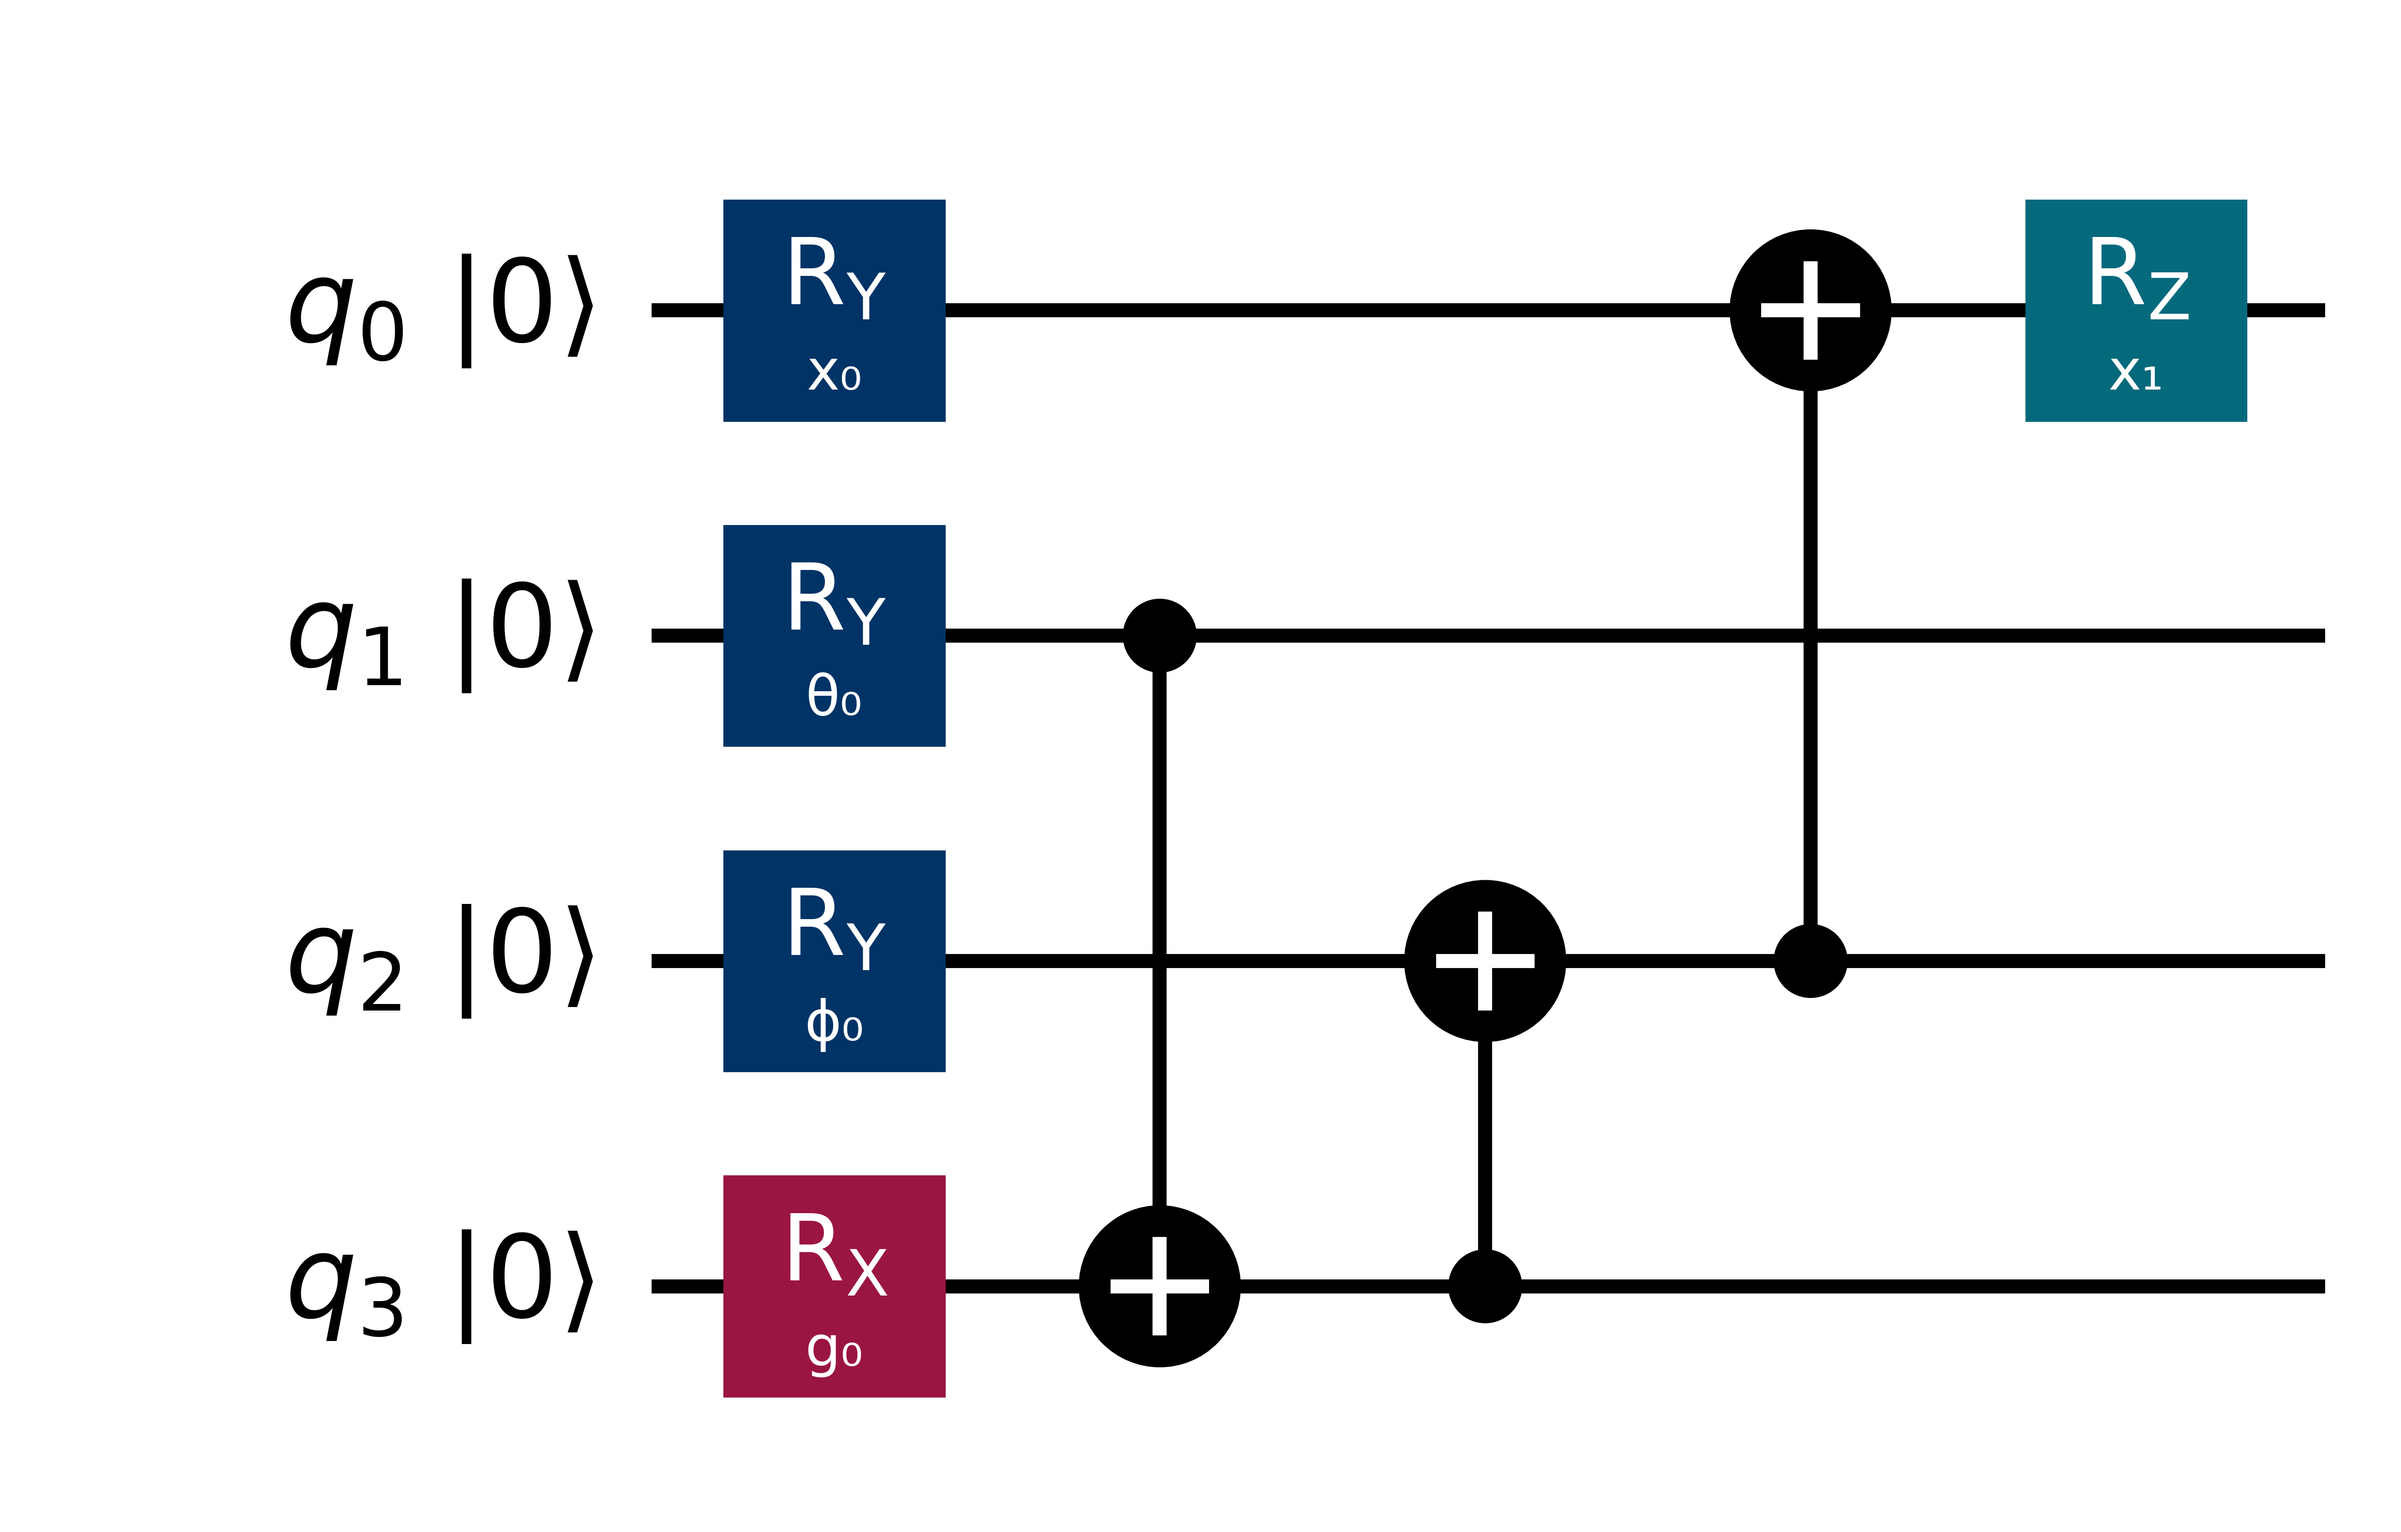
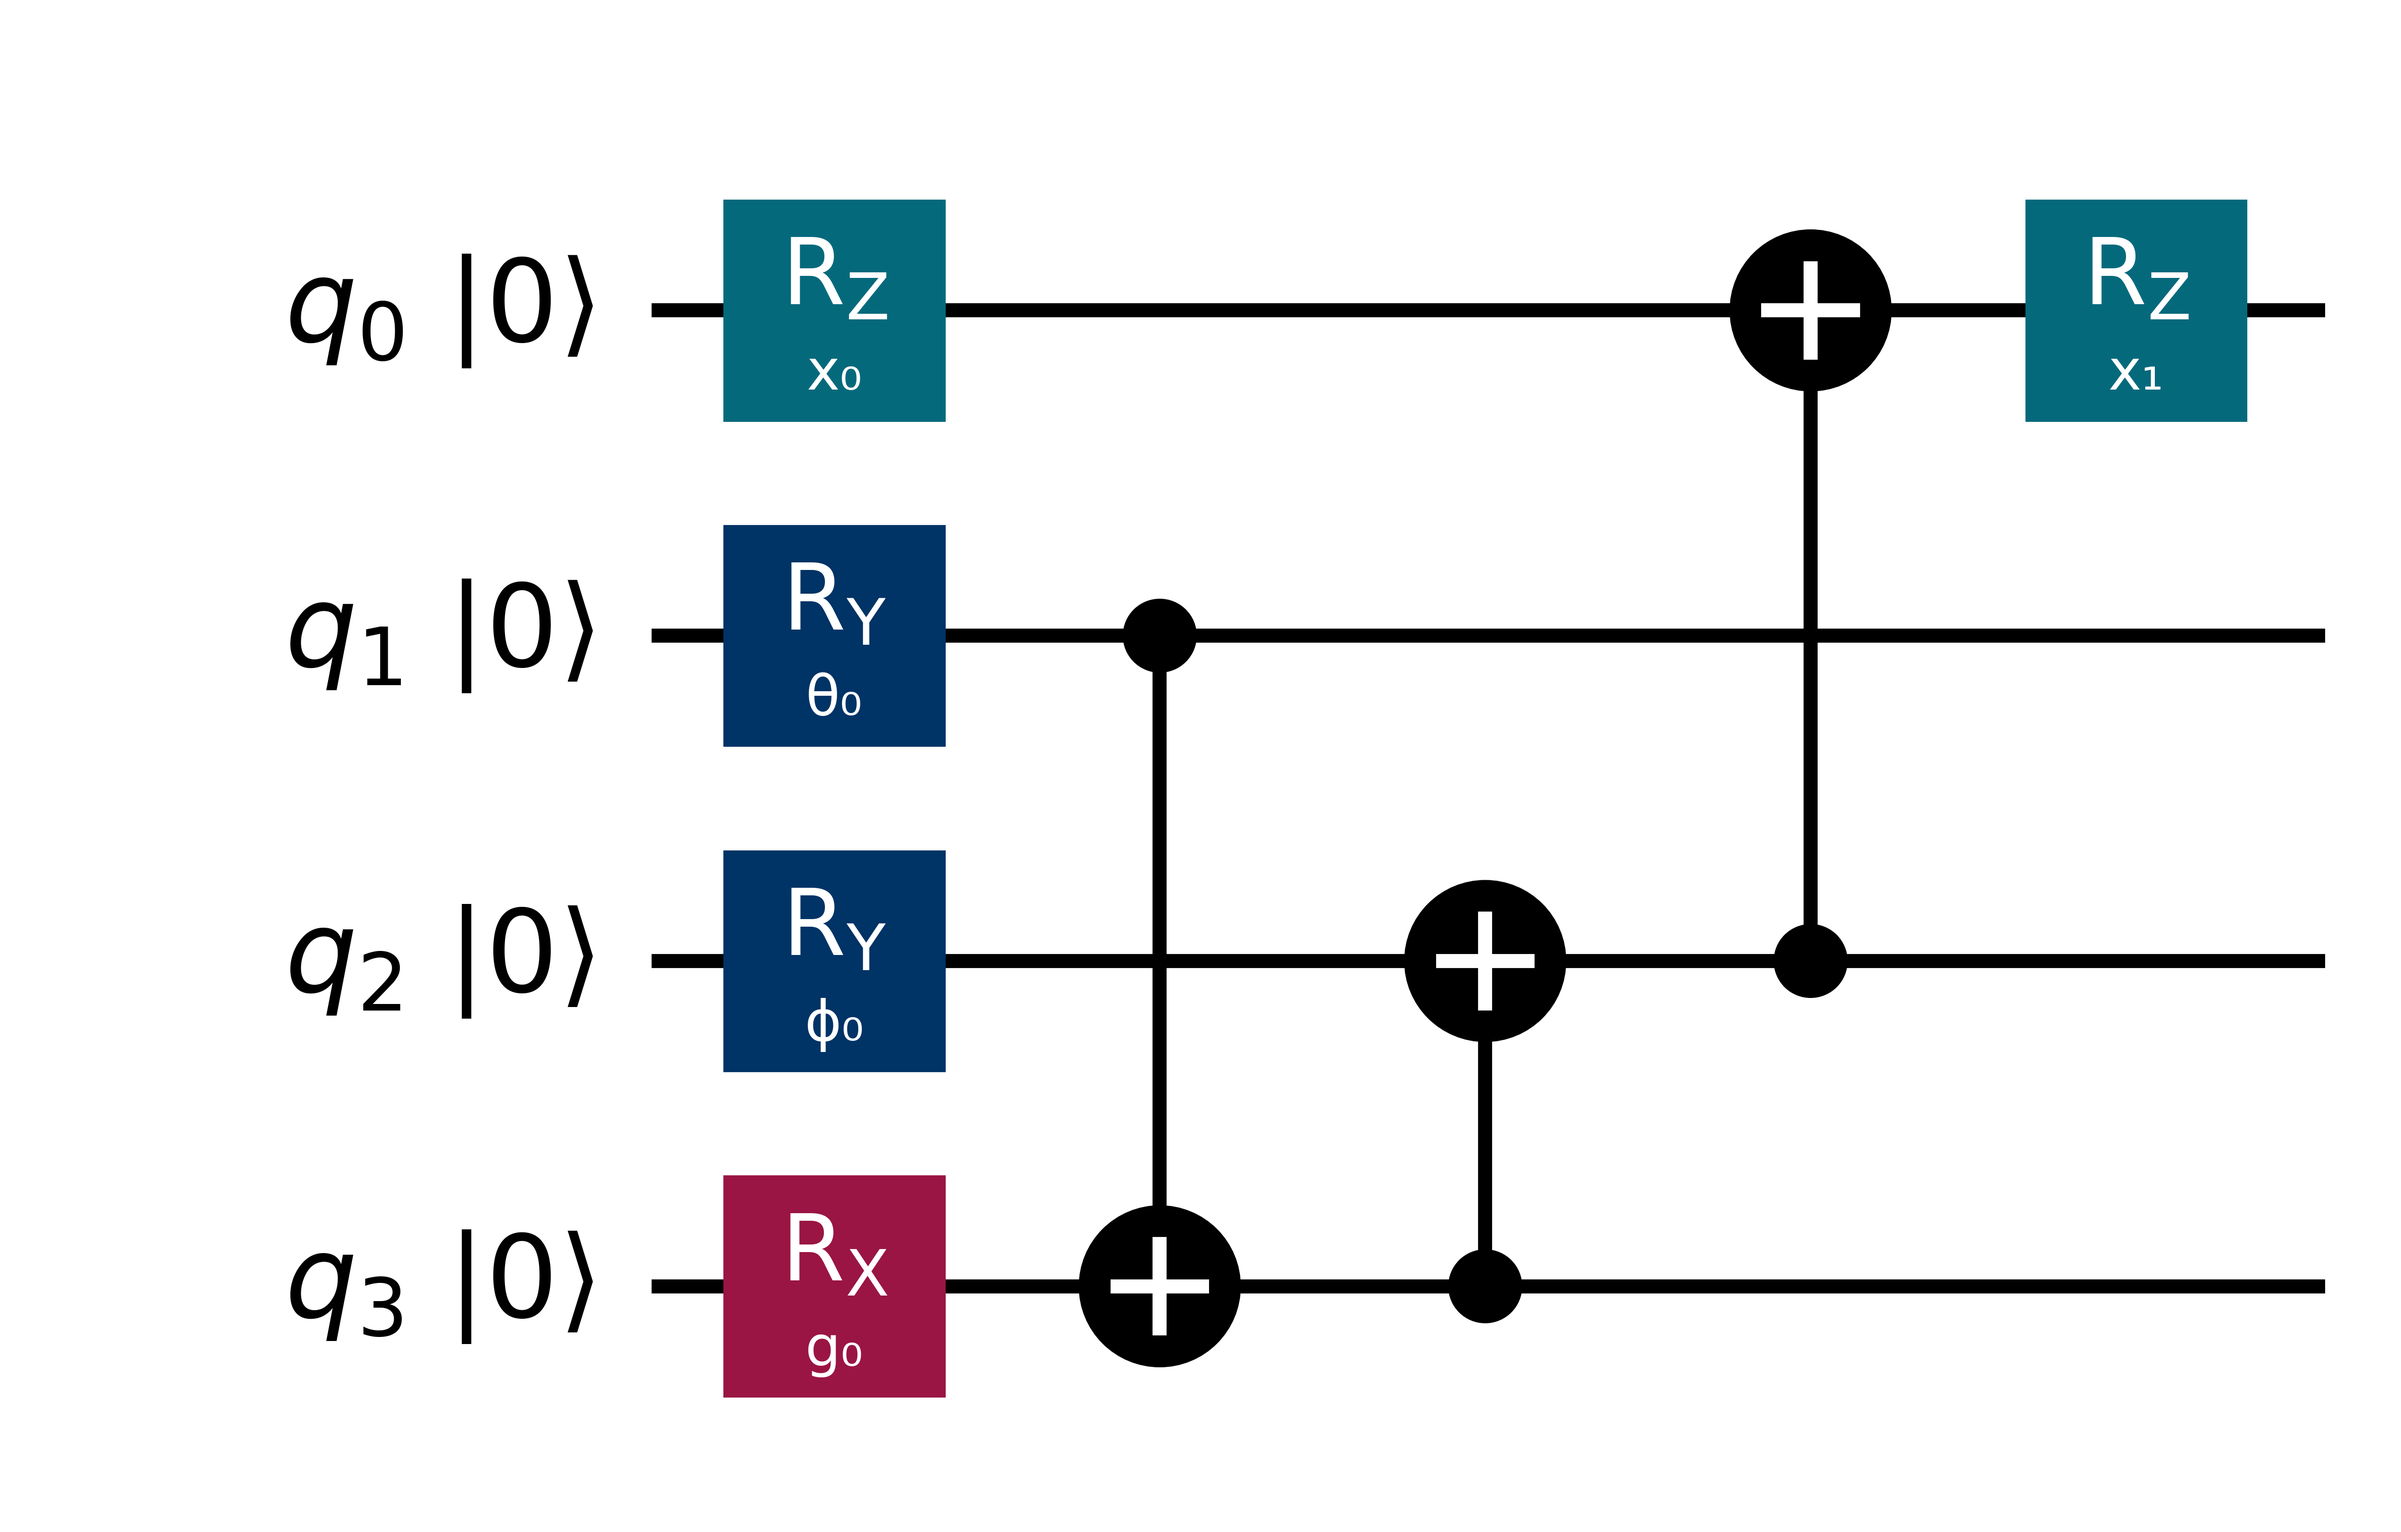
Modify rotation gate in circuit

Changed region(s): [[0.2804, 0.124, 0.4051, 0.279]]

diff --git a/cifar10_binaryclass/qnlnn_circuit.py b/cifar10_binaryclass/qnlnn_circuit.py
@@ -73,7 +73,7 @@ class QNLNNCircuit:
 
     def ansatz_0_1(self):
         # rep 1
-        self.circuit.ry(self.x_0, 0)
+        self.circuit.rz(self.x_0, 0)
         self.circuit.ry(self.theta_0, 1)
         self.circuit.ry(self.phi_0, 2)
         self.circuit.rx(self.g_0, 3)
@@ -86,7 +86,7 @@ class QNLNNCircuit:
 
     def ansatz_0_2(self):
         # rep 1
-        self.circuit.ry(self.x_0, 0)
+        self.circuit.rz(self.x_0, 0)
         self.circuit.ry(self.theta_0, 1)
         self.circuit.ry(self.phi_0, 2)
         self.circuit.rx(self.g_0, 3)
@@ -98,7 +98,7 @@ class QNLNNCircuit:
         self.circuit.rz(self.x_1, 0)
 
         # rep 2
-        self.circuit.ry(self.x_2, 0)
+        self.circuit.rz(self.x_2, 0)
         self.circuit.ry(self.theta_1, 1)
         self.circuit.ry(self.phi_1, 2)
         self.circuit.rx(self.g_1, 3)
@@ -111,7 +111,7 @@ class QNLNNCircuit:
 
     def ansatz_0_3(self):
         # rep 1
-        self.circuit.ry(self.x_0, 0)
+        self.circuit.rz(self.x_0, 0)
         self.circuit.ry(self.theta_0, 1)
         self.circuit.ry(self.phi_0, 2)
         self.circuit.rx(self.g_0, 3)
@@ -123,7 +123,7 @@ class QNLNNCircuit:
         self.circuit.rz(self.x_1, 0)
 
         # rep 2
-        self.circuit.ry(self.x_2, 0)
+        self.circuit.rz(self.x_2, 0)
         self.circuit.ry(self.theta_1, 1)
         self.circuit.ry(self.phi_1, 2)
         self.circuit.rx(self.g_1, 3)
@@ -135,7 +135,7 @@ class QNLNNCircuit:
         self.circuit.rz(self.x_3, 0)
 
         # rep 3
-        self.circuit.ry(self.x_4, 0)
+        self.circuit.rz(self.x_4, 0)
         self.circuit.ry(self.theta_2, 1)
         self.circuit.ry(self.phi_2, 2)
         self.circuit.rx(self.g_2, 3)
@@ -148,7 +148,7 @@ class QNLNNCircuit:
 
     def ansatz_1_1(self):
         # rep 1
-        self.circuit.ry(self.x_0, 0)
+        self.circuit.rz(self.x_0, 0)
         self.circuit.ry(self.theta_0, 1)
         self.circuit.ry(self.phi_0, 2)
         self.circuit.rx(self.g_0, 3)
@@ -161,7 +161,7 @@ class QNLNNCircuit:
 
     def ansatz_1_2(self):
         # rep 1
-        self.circuit.ry(self.x_0, 0)
+        self.circuit.rz(self.x_0, 0)
         self.circuit.ry(self.theta_0, 1)
         self.circuit.ry(self.phi_0, 2)
         self.circuit.rx(self.g_0, 3)
@@ -173,7 +173,7 @@ class QNLNNCircuit:
         self.circuit.rz(self.x_1, 0)
 
         # rep 2
-        self.circuit.ry(self.x_2, 0)
+        self.circuit.rz(self.x_2, 0)
         self.circuit.ry(self.theta_1, 1)
         self.circuit.ry(self.phi_1, 2)
         self.circuit.rx(self.g_1, 3)
@@ -186,7 +186,7 @@ class QNLNNCircuit:
 
     def ansatz_1_3(self):
         # rep 1
-        self.circuit.ry(self.x_0, 0)
+        self.circuit.rz(self.x_0, 0)
         self.circuit.ry(self.theta_0, 1)
         self.circuit.ry(self.phi_0, 2)
         self.circuit.rx(self.g_0, 3)
@@ -198,7 +198,7 @@ class QNLNNCircuit:
         self.circuit.rz(self.x_1, 0)
 
         # rep 2
-        self.circuit.ry(self.x_2, 0)
+        self.circuit.rz(self.x_2, 0)
         self.circuit.ry(self.theta_1, 1)
         self.circuit.ry(self.phi_1, 2)
         self.circuit.rx(self.g_1, 3)
@@ -210,7 +210,7 @@ class QNLNNCircuit:
         self.circuit.rz(self.x_3, 0)
 
         # rep 3
-        self.circuit.ry(self.x_4, 0)
+        self.circuit.rz(self.x_4, 0)
         self.circuit.ry(self.theta_2, 1)
         self.circuit.ry(self.phi_2, 2)
         self.circuit.rx(self.g_2, 3)
@@ -223,7 +223,7 @@ class QNLNNCircuit:
 
     def ansatz_2_1(self):
         # rep 1
-        self.circuit.ry(self.x_0, 0)
+        self.circuit.rz(self.x_0, 0)
         self.circuit.ry(self.theta_0, 1)
         self.circuit.ry(self.phi_0, 2)
         self.circuit.rx(self.g_0, 3)
@@ -236,7 +236,7 @@ class QNLNNCircuit:
 
     def ansatz_2_2(self):
         # rep 1
-        self.circuit.ry(self.x_0, 0)
+        self.circuit.rz(self.x_0, 0)
         self.circuit.ry(self.theta_0, 1)
         self.circuit.ry(self.phi_0, 2)
         self.circuit.rx(self.g_0, 3)
@@ -248,7 +248,7 @@ class QNLNNCircuit:
         self.circuit.rz(self.x_1, 0)
 
         # rep 2
-        self.circuit.ry(self.x_2, 0)
+        self.circuit.rz(self.x_2, 0)
         self.circuit.ry(self.theta_1, 1)
         self.circuit.ry(self.phi_1, 2)
         self.circuit.rx(self.g_1, 3)
@@ -261,7 +261,7 @@ class QNLNNCircuit:
 
     def ansatz_2_3(self):
         # rep 1
-        self.circuit.ry(self.x_0, 0)
+        self.circuit.rz(self.x_0, 0)
         self.circuit.ry(self.theta_0, 1)
         self.circuit.ry(self.phi_0, 2)
         self.circuit.rx(self.g_0, 3)
@@ -273,7 +273,7 @@ class QNLNNCircuit:
         self.circuit.rz(self.x_1, 0)
 
         # rep 2
-        self.circuit.ry(self.x_2, 0)
+        self.circuit.rz(self.x_2, 0)
         self.circuit.ry(self.theta_1, 1)
         self.circuit.ry(self.phi_1, 2)
         self.circuit.rx(self.g_1, 3)
@@ -285,7 +285,7 @@ class QNLNNCircuit:
         self.circuit.rz(self.x_3, 0)
 
         # rep 3
-        self.circuit.ry(self.x_4, 0)
+        self.circuit.rz(self.x_4, 0)
         self.circuit.ry(self.theta_2, 1)
         self.circuit.ry(self.phi_2, 2)
         self.circuit.rx(self.g_2, 3)

diff --git a/mnist_digit_binaryclass/qnlnn_circuit.py b/mnist_digit_binaryclass/qnlnn_circuit.py
@@ -73,7 +73,7 @@ class QNLNNCircuit:
 
     def ansatz_0_1(self):
         # rep 1
-        self.circuit.ry(self.x_0, 0)
+        self.circuit.rz(self.x_0, 0)
         self.circuit.ry(self.theta_0, 1)
         self.circuit.ry(self.phi_0, 2)
         self.circuit.rx(self.g_0, 3)
@@ -86,7 +86,7 @@ class QNLNNCircuit:
 
     def ansatz_0_2(self):
         # rep 1
-        self.circuit.ry(self.x_0, 0)
+        self.circuit.rz(self.x_0, 0)
         self.circuit.ry(self.theta_0, 1)
         self.circuit.ry(self.phi_0, 2)
         self.circuit.rx(self.g_0, 3)
@@ -98,7 +98,7 @@ class QNLNNCircuit:
         self.circuit.rz(self.x_1, 0)
 
         # rep 2
-        self.circuit.ry(self.x_2, 0)
+        self.circuit.rz(self.x_2, 0)
         self.circuit.ry(self.theta_1, 1)
         self.circuit.ry(self.phi_1, 2)
         self.circuit.rx(self.g_1, 3)
@@ -111,7 +111,7 @@ class QNLNNCircuit:
 
     def ansatz_0_3(self):
         # rep 1
-        self.circuit.ry(self.x_0, 0)
+        self.circuit.rz(self.x_0, 0)
         self.circuit.ry(self.theta_0, 1)
         self.circuit.ry(self.phi_0, 2)
         self.circuit.rx(self.g_0, 3)
@@ -123,7 +123,7 @@ class QNLNNCircuit:
         self.circuit.rz(self.x_1, 0)
 
         # rep 2
-        self.circuit.ry(self.x_2, 0)
+        self.circuit.rz(self.x_2, 0)
         self.circuit.ry(self.theta_1, 1)
         self.circuit.ry(self.phi_1, 2)
         self.circuit.rx(self.g_1, 3)
@@ -135,7 +135,7 @@ class QNLNNCircuit:
         self.circuit.rz(self.x_3, 0)
 
         # rep 3
-        self.circuit.ry(self.x_4, 0)
+        self.circuit.rz(self.x_4, 0)
         self.circuit.ry(self.theta_2, 1)
         self.circuit.ry(self.phi_2, 2)
         self.circuit.rx(self.g_2, 3)
@@ -148,7 +148,7 @@ class QNLNNCircuit:
 
     def ansatz_1_1(self):
         # rep 1
-        self.circuit.ry(self.x_0, 0)
+        self.circuit.rz(self.x_0, 0)
         self.circuit.ry(self.theta_0, 1)
         self.circuit.ry(self.phi_0, 2)
         self.circuit.rx(self.g_0, 3)
@@ -161,7 +161,7 @@ class QNLNNCircuit:
 
     def ansatz_1_2(self):
         # rep 1
-        self.circuit.ry(self.x_0, 0)
+        self.circuit.rz(self.x_0, 0)
         self.circuit.ry(self.theta_0, 1)
         self.circuit.ry(self.phi_0, 2)
         self.circuit.rx(self.g_0, 3)
@@ -173,7 +173,7 @@ class QNLNNCircuit:
         self.circuit.rz(self.x_1, 0)
 
         # rep 2
-        self.circuit.ry(self.x_2, 0)
+        self.circuit.rz(self.x_2, 0)
         self.circuit.ry(self.theta_1, 1)
         self.circuit.ry(self.phi_1, 2)
         self.circuit.rx(self.g_1, 3)
@@ -186,7 +186,7 @@ class QNLNNCircuit:
 
     def ansatz_1_3(self):
         # rep 1
-        self.circuit.ry(self.x_0, 0)
+        self.circuit.rz(self.x_0, 0)
         self.circuit.ry(self.theta_0, 1)
         self.circuit.ry(self.phi_0, 2)
         self.circuit.rx(self.g_0, 3)
@@ -198,7 +198,7 @@ class QNLNNCircuit:
         self.circuit.rz(self.x_1, 0)
 
         # rep 2
-        self.circuit.ry(self.x_2, 0)
+        self.circuit.rz(self.x_2, 0)
         self.circuit.ry(self.theta_1, 1)
         self.circuit.ry(self.phi_1, 2)
         self.circuit.rx(self.g_1, 3)
@@ -210,7 +210,7 @@ class QNLNNCircuit:
         self.circuit.rz(self.x_3, 0)
 
         # rep 3
-        self.circuit.ry(self.x_4, 0)
+        self.circuit.rz(self.x_4, 0)
         self.circuit.ry(self.theta_2, 1)
         self.circuit.ry(self.phi_2, 2)
         self.circuit.rx(self.g_2, 3)
@@ -223,7 +223,7 @@ class QNLNNCircuit:
 
     def ansatz_2_1(self):
         # rep 1
-        self.circuit.ry(self.x_0, 0)
+        self.circuit.rz(self.x_0, 0)
         self.circuit.ry(self.theta_0, 1)
         self.circuit.ry(self.phi_0, 2)
         self.circuit.rx(self.g_0, 3)
@@ -236,7 +236,7 @@ class QNLNNCircuit:
 
     def ansatz_2_2(self):
         # rep 1
-        self.circuit.ry(self.x_0, 0)
+        self.circuit.rz(self.x_0, 0)
         self.circuit.ry(self.theta_0, 1)
         self.circuit.ry(self.phi_0, 2)
         self.circuit.rx(self.g_0, 3)
@@ -248,7 +248,7 @@ class QNLNNCircuit:
         self.circuit.rz(self.x_1, 0)
 
         # rep 2
-        self.circuit.ry(self.x_2, 0)
+        self.circuit.rz(self.x_2, 0)
         self.circuit.ry(self.theta_1, 1)
         self.circuit.ry(self.phi_1, 2)
         self.circuit.rx(self.g_1, 3)
@@ -261,7 +261,7 @@ class QNLNNCircuit:
 
     def ansatz_2_3(self):
         # rep 1
-        self.circuit.ry(self.x_0, 0)
+        self.circuit.rz(self.x_0, 0)
         self.circuit.ry(self.theta_0, 1)
         self.circuit.ry(self.phi_0, 2)
         self.circuit.rx(self.g_0, 3)
@@ -273,7 +273,7 @@ class QNLNNCircuit:
         self.circuit.rz(self.x_1, 0)
 
         # rep 2
-        self.circuit.ry(self.x_2, 0)
+        self.circuit.rz(self.x_2, 0)
         self.circuit.ry(self.theta_1, 1)
         self.circuit.ry(self.phi_1, 2)
         self.circuit.rx(self.g_1, 3)
@@ -285,7 +285,7 @@ class QNLNNCircuit:
         self.circuit.rz(self.x_3, 0)
 
         # rep 3
-        self.circuit.ry(self.x_4, 0)
+        self.circuit.rz(self.x_4, 0)
         self.circuit.ry(self.theta_2, 1)
         self.circuit.ry(self.phi_2, 2)
         self.circuit.rx(self.g_2, 3)

diff --git a/circuit_draw.py b/circuit_draw.py
@@ -88,7 +88,7 @@ theta = Parameter('θ\u2080')
 phi = Parameter('ϕ\u2080')
 g = Parameter('g\u2080')
 
-ansatz0.ry(x_0, 0)
+ansatz0.rz(x_0, 0)
 ansatz0.ry(theta, 1)
 ansatz0.ry(phi, 2)
 ansatz0.rx(g, 3)
@@ -106,7 +106,7 @@ ansatz0.draw(output='mpl', style=style, initial_state=True, filename="./docs/ans
 #####################################################
 ansatz1 = QuantumCircuit(4)
 
-ansatz1.ry(x_0, 0)
+ansatz1.rz(x_0, 0)
 ansatz1.ry(theta, 1)
 ansatz1.ry(phi, 2)
 ansatz1.rx(g, 3)
@@ -124,7 +124,7 @@ ansatz1.draw(output='mpl', style=style, initial_state=True, filename="./docs/ans
 #####################################################
 ansatz2 = QuantumCircuit(4)
 
-ansatz2.ry(x_0, 0)
+ansatz2.rz(x_0, 0)
 ansatz2.ry(theta, 1)
 ansatz2.ry(phi, 2)
 ansatz2.rx(g, 3)

diff --git a/cifar10_binaryclass/cifar10_binaryclass_pca.py b/cifar10_binaryclass/cifar10_binaryclass_pca.py
@@ -16,11 +16,11 @@ from cifar10_binaryclass_model_pca import create_qnlnn, HybridClassicalQNLNN
 # Model
 # -----------------------------------------------------------------------------
 
-ansatz = 0
-feature_map_reps = 2
+ansatz = 1
+feature_map_reps = 3
 ansatz_reps = 2
 num_epochs = 100
-lr = 3e-4
+lr = 4e-4
 qnlnn = create_qnlnn(feature_map_reps, ansatz, ansatz_reps)
 model = HybridClassicalQNLNN(qnlnn)
 

diff --git a/mnist_digit_binaryclass/mnist_digit_binaryclass_cnn.py b/mnist_digit_binaryclass/mnist_digit_binaryclass_cnn.py
@@ -14,9 +14,9 @@ from mnist_digit_binaryclass_model_cnn import create_qnlnn, HybridCNNQNLNN
 # Model
 # -----------------------------------------------------------------------------
 
-ansatz = 0
-feature_map_reps = 1
-ansatz_reps = 1
+ansatz = 2
+feature_map_reps = 3
+ansatz_reps = 3
 num_epochs = 25
 lr = 1e-4
 qnlnn = create_qnlnn(feature_map_reps, ansatz, ansatz_reps)

diff --git a/mnist_digit_binaryclass/mnist_digit_binaryclass_pca.py b/mnist_digit_binaryclass/mnist_digit_binaryclass_pca.py
@@ -16,7 +16,7 @@ from mnist_digit_binaryclass_model_pca import create_qnlnn, HybridClassicalQNLNN
 # Model
 # -----------------------------------------------------------------------------
 
-ansatz = 0
+ansatz = 2
 feature_map_reps = 1
 ansatz_reps = 1
 num_epochs = 40
